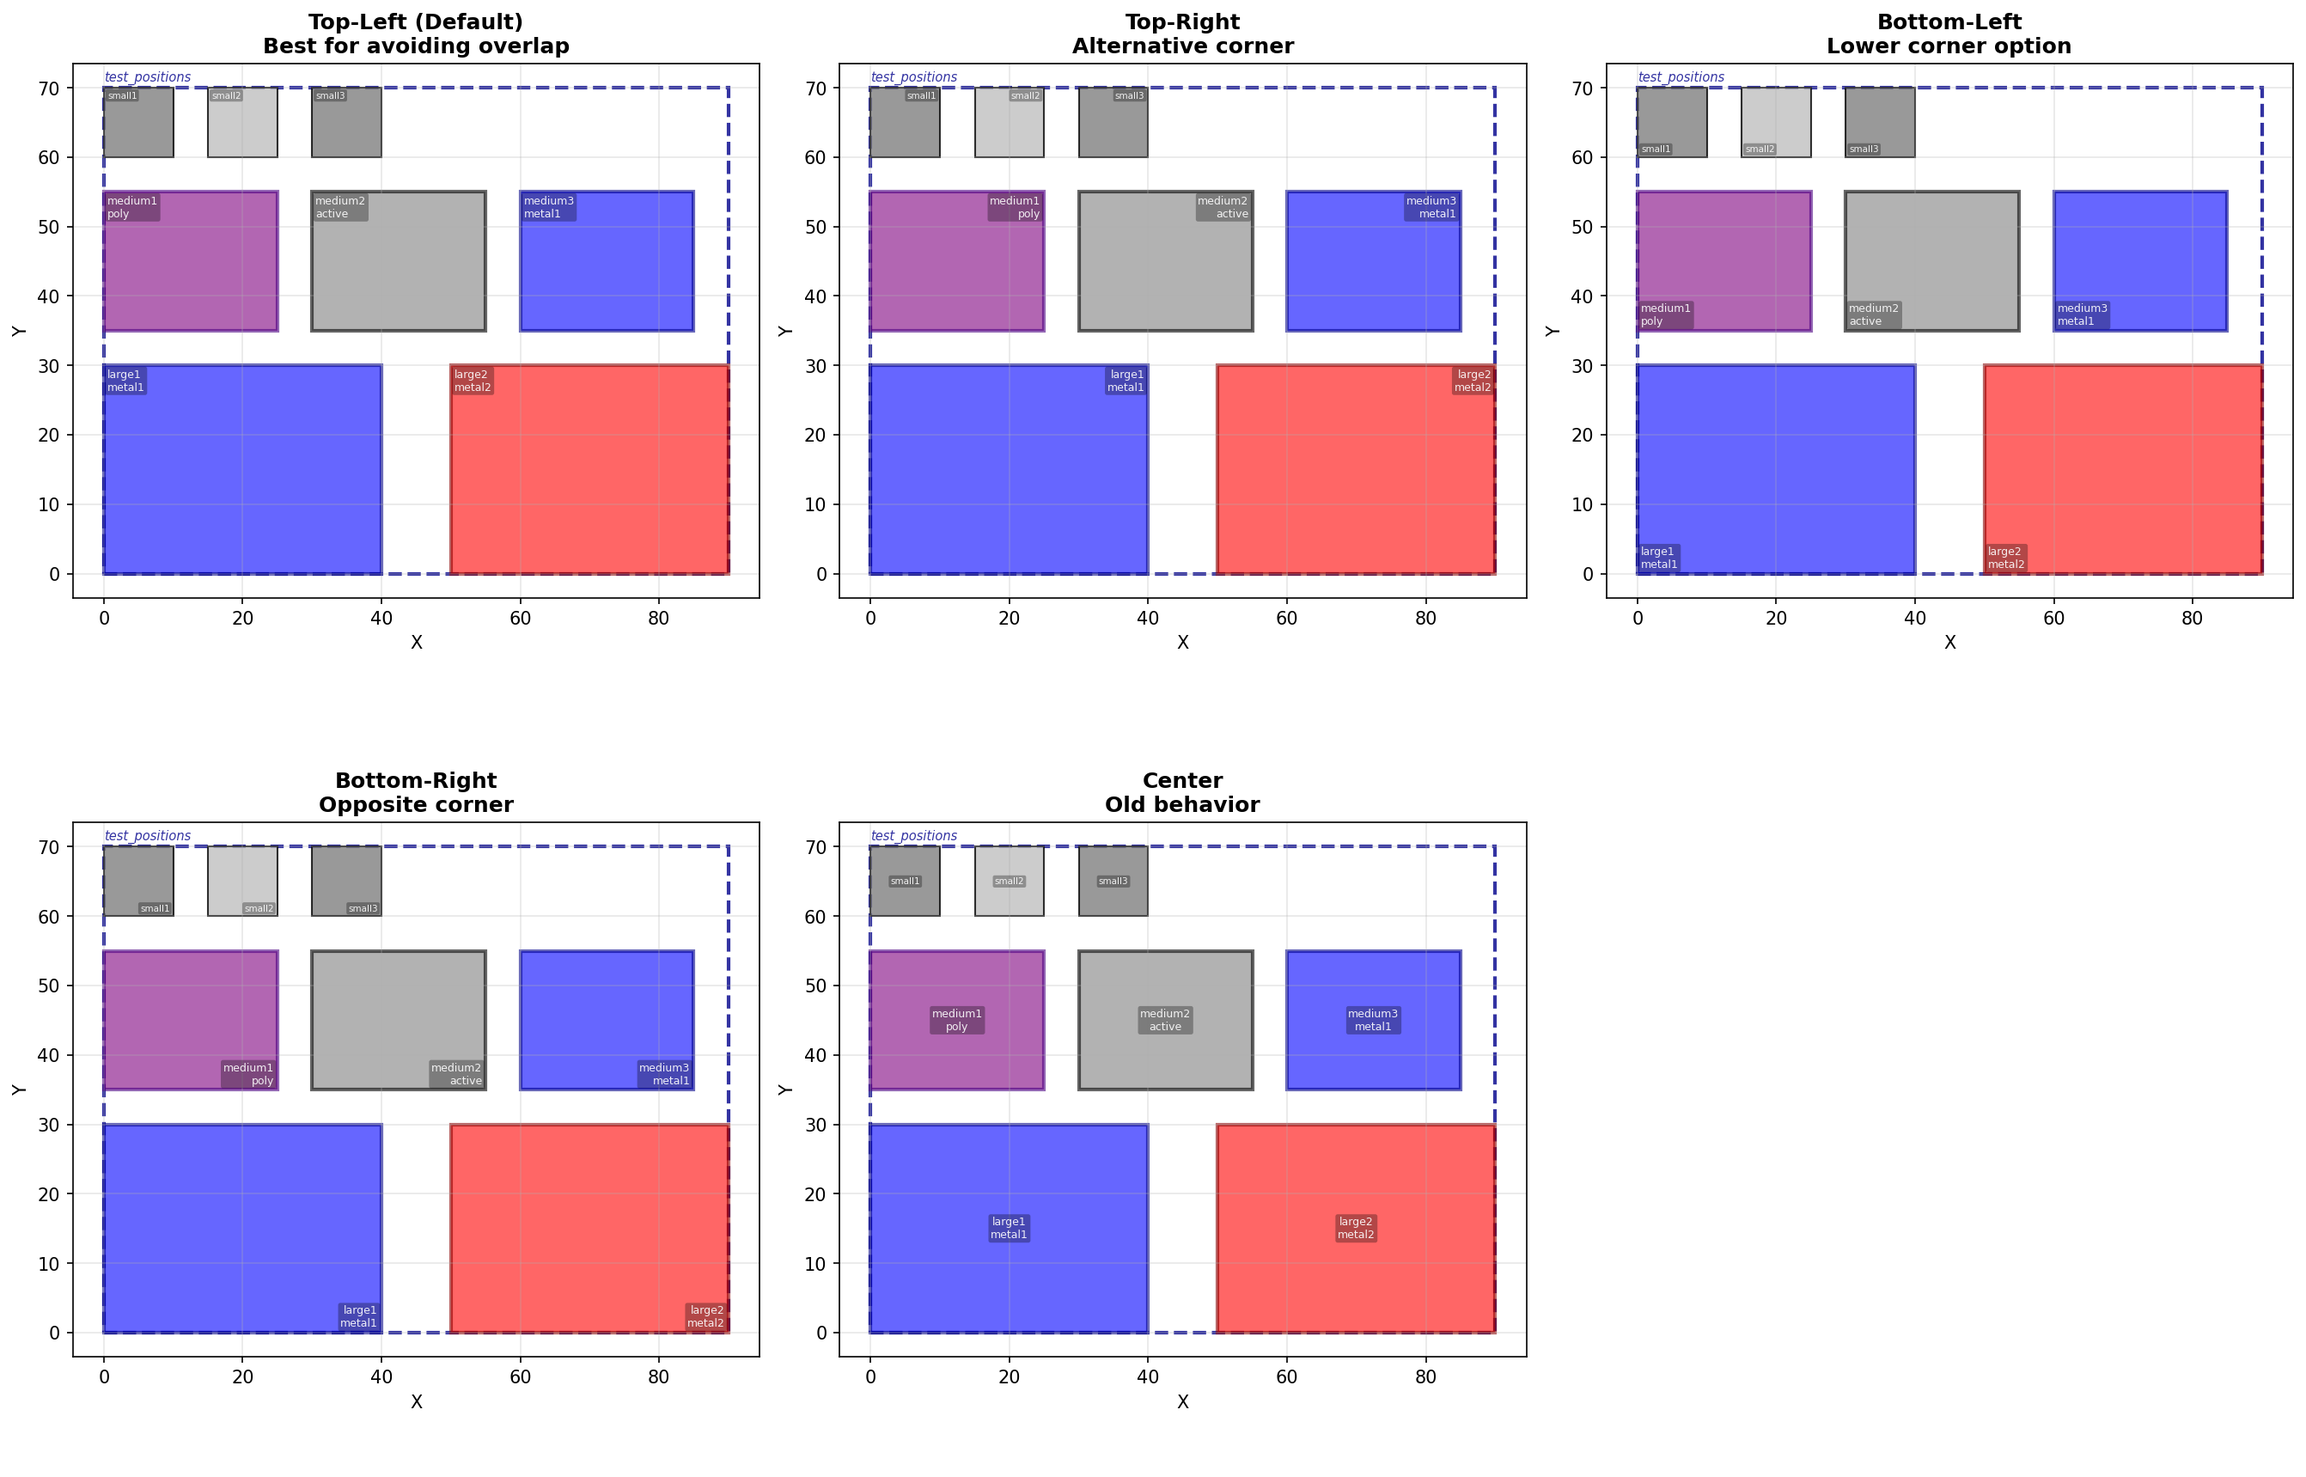
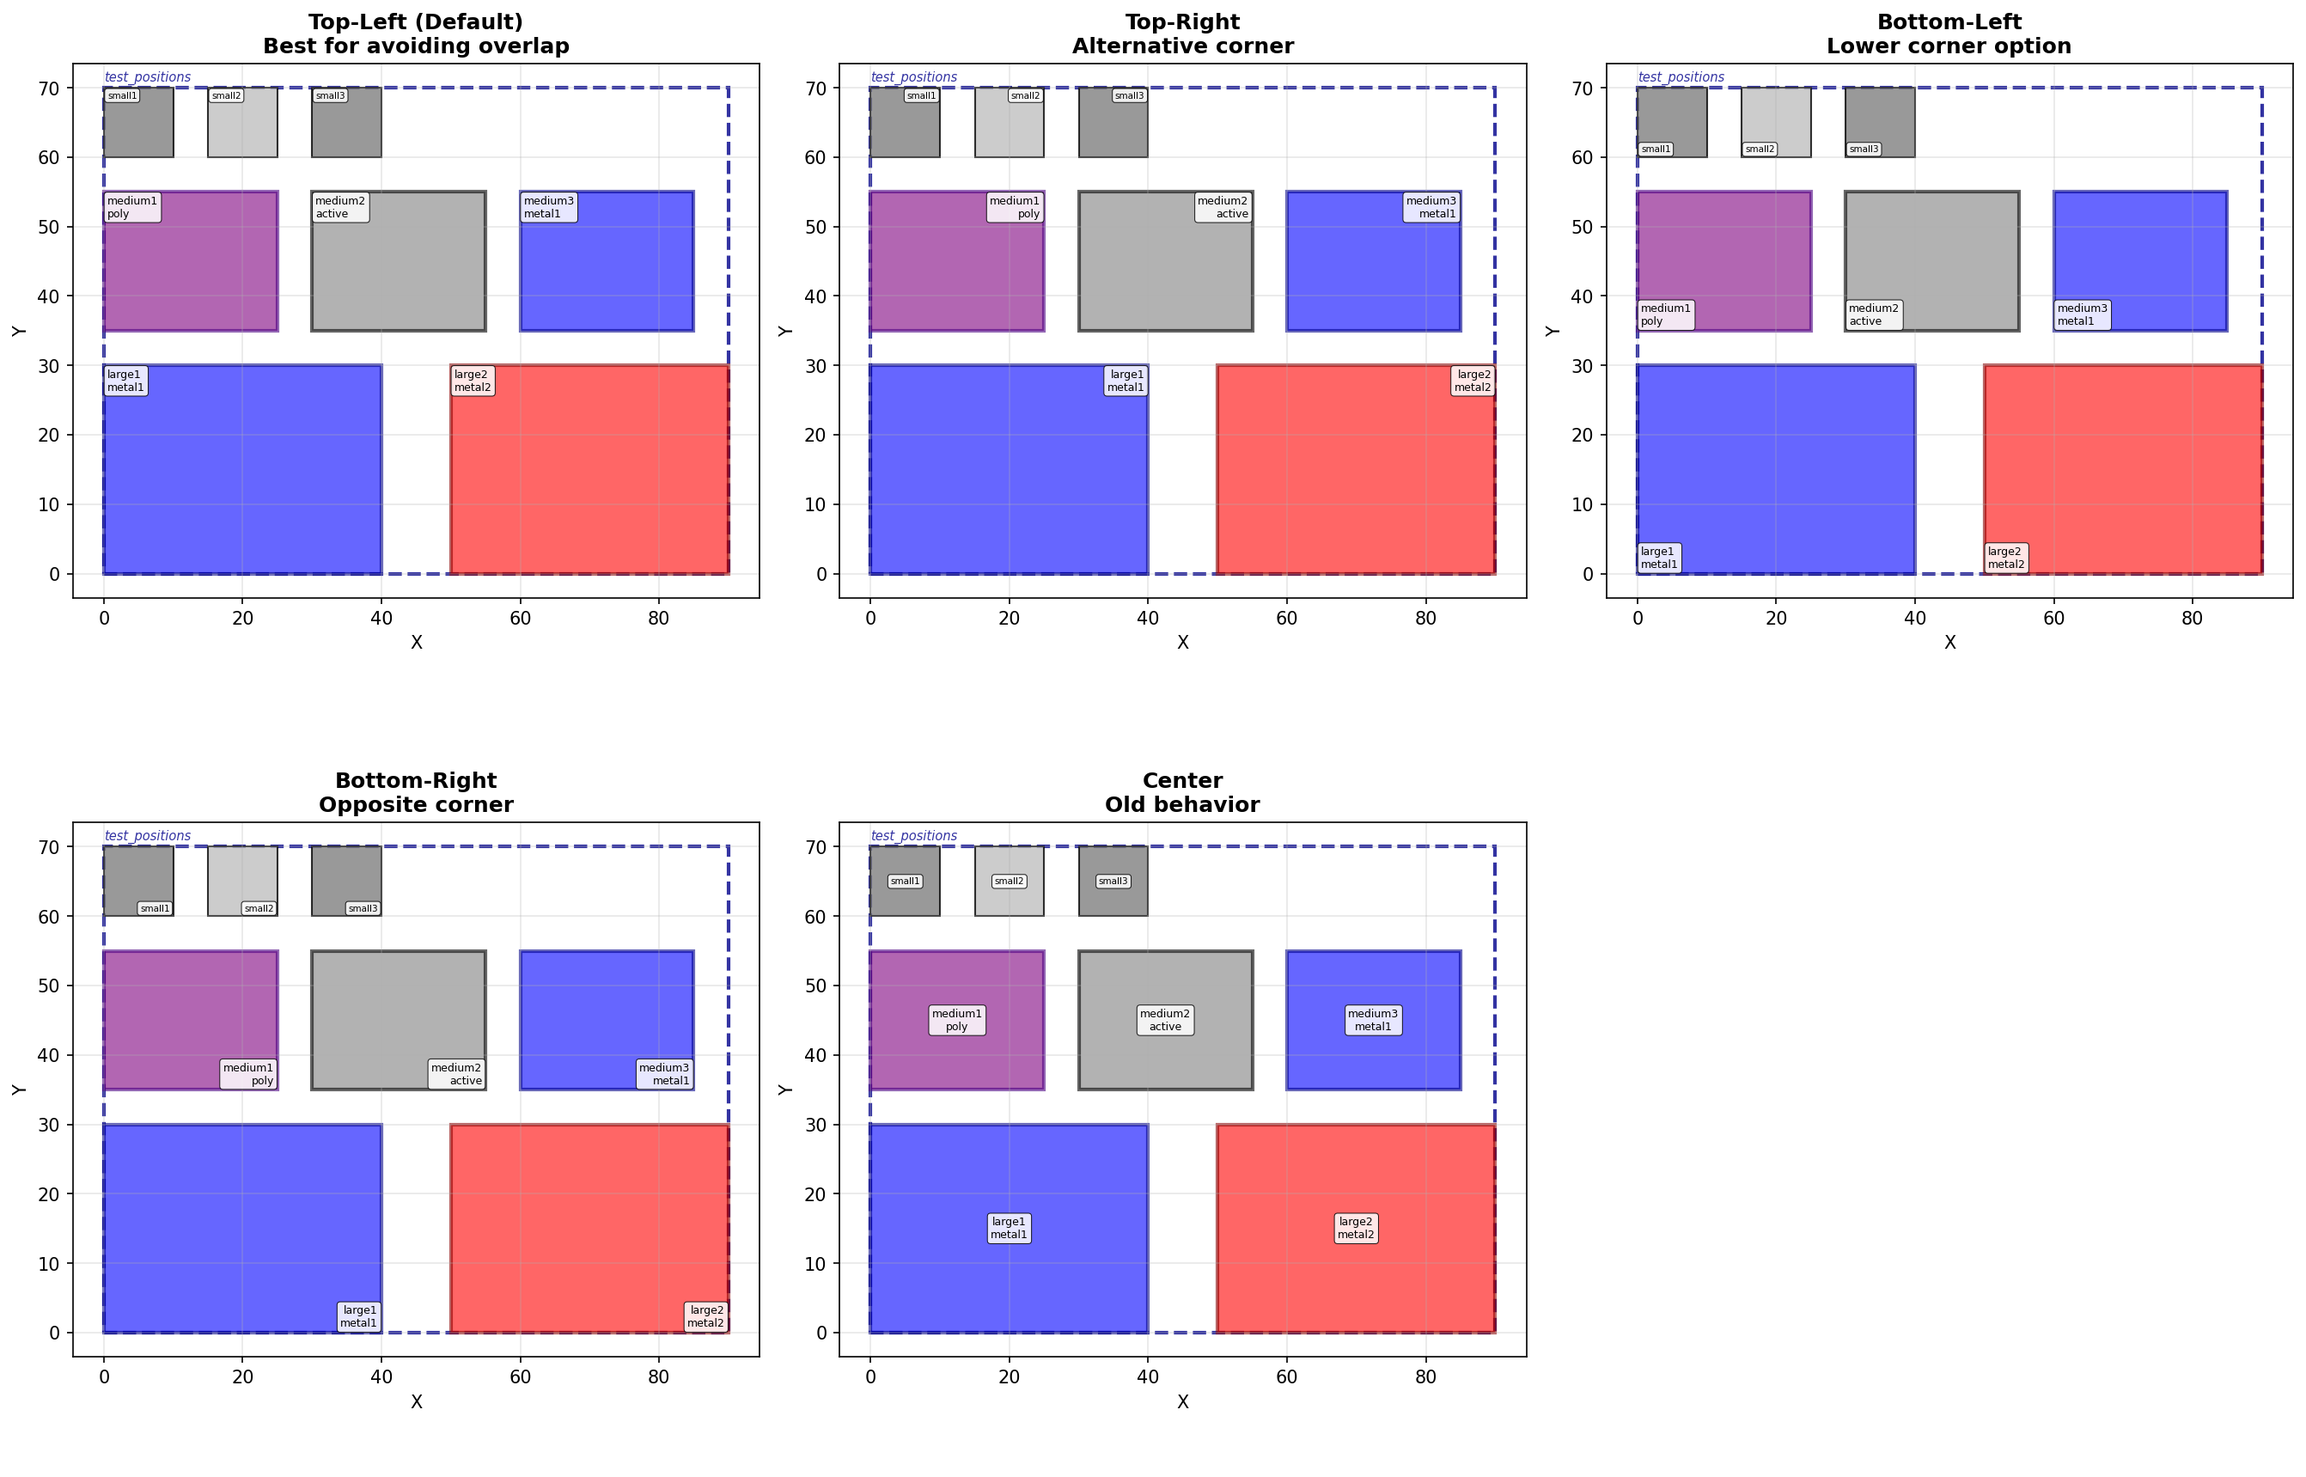
feat: Enhance label appearance and add single-edge constraint keywords
Label Enhancements:
- Changed text color from white to black for better readability
- Changed background from semi-transparent black to white (alpha=0.85)
- Added sharp black border around labels (linewidth=0.5)
- Increased padding from 0.2 to 0.3 for better spacing
- Labels now have crisp, professional appearance with high contrast

New Constraint Keywords (Single-Edge):
- l_edge = ox1-sx1  (object left to subject left)
- r_edge = ox2-sx2  (object right to subject right)
- t_edge = oy2-sy2  (object top to subject top)
- b_edge = oy1-sy1  (object bottom to subject bottom)

Use cases for single-edge keywords:
- l_edge=0: Align left edges (subject and object left edges match)
- l_edge=5: Subject extends 5 units to the left of object
- r_edge=0: Align right edges
- Useful for alignment and positioning relative to reference cells

Files modified:
- layout_automation/cell.py: Enhanced label rendering with black on white
- layout_automation/constraint_keywords.py: Added 4 new single-edge keywords
  and updated documentation table

New test file:
- test_label_and_edge_enhancements.py: Comprehensive testing with 5 tests:
  1. Edge keyword expansion verification
  2. Single-edge keywords in actual layouts
  3. Enhanced label appearance visualization
  4. Practical edge keyword examples
  5. Comparison between single-edge and double-edge keywords

Visual improvements:
- All existing label position test outputs regenerated with enhanced appearance
[…]

diff --git a/test_label_and_edge_enhancements.py b/test_label_and_edge_enhancements.py
@@ -1,0 +1,247 @@
+#!/usr/bin/env python3
+"""
+Test enhanced label appearance and new single-edge keywords
+
+Tests:
+1. Enhanced label appearance (black on white, sharper)
+2. New single-edge keywords: l_edge, r_edge, t_edge, b_edge
+3. Visual comparison before/after
+"""
+
+from layout_automation import Cell
+from layout_automation.constraint_keywords import expand_constraint_keywords
+import matplotlib.pyplot as plt
+
+print("="*70)
+print("Testing Label and Edge Enhancements")
+print("="*70)
+
+# Test 1: Verify new edge keywords expansion
+print("\n[Test 1] New edge keyword expansion")
+print("-" * 70)
+
+test_cases = [
+    ('l_edge=10', 'ox1-sx1=10'),
+    ('r_edge=5', 'ox2-sx2=5'),
+    ('t_edge=3', 'oy2-sy2=3'),
+    ('b_edge=7', 'oy1-sy1=7'),
+    ('l_edge=0, b_edge=0', 'ox1-sx1=0, oy1-sy1=0'),
+]
+
+all_passed = True
+for keyword, expected in test_cases:
+    result = expand_constraint_keywords(keyword)
+    status = "[PASS]" if result == expected else "[FAIL]"
+    if result != expected:
+        all_passed = False
+    print(f"  {status} '{keyword}' -> '{result}'")
+    if result != expected:
+        print(f"         Expected: '{expected}'")
+
+if all_passed:
+    print("\n  All edge keyword tests passed!")
+else:
+    print("\n  Some tests failed!")
+
+# Test 2: Use new keywords in actual layout
+print("\n[Test 2] Using new edge keywords in layout")
+print("-" * 70)
+
+parent = Cell('chip')
+base = Cell('base', 'metal1')
+aligned_left = Cell('aligned_left', 'metal2')
+aligned_right = Cell('aligned_right', 'poly')
+aligned_top = Cell('aligned_top', 'active')
+aligned_bottom = Cell('aligned_bottom', 'contact')
+
+parent.add_instance([base, aligned_left, aligned_right, aligned_top, aligned_bottom])
+
+# Base cell
+parent.constrain(base, 'x1=20, y1=20, x2=60, y2=50')
+
+# Use l_edge to align left edges (l_edge=0 means ox1=sx1)
+parent.constrain(aligned_left, 'l_edge=0, b_edge=10, swidth=20, sheight=15', base)
+
+# Use r_edge to align right edges (r_edge=0 means ox2=sx2)
+parent.constrain(aligned_right, 'r_edge=0, b_edge=10, swidth=20, sheight=15', base)
+
+# Use t_edge to align top edges (t_edge=0 means oy2=sy2)
+parent.constrain(aligned_top, 't_edge=0, l_edge=10, swidth=15, sheight=20', base)
+
+# Use b_edge to align bottom edges (b_edge=0 means oy1=sy1)
+parent.constrain(aligned_bottom, 'b_edge=0, l_edge=10, swidth=20, sheight=15', base)
+
+parent.solver()
+
+# Verify constraints worked correctly
+print(f"  Base: {base.get_bounds()}")
+print(f"  Aligned left (l_edge=0): {aligned_left.get_bounds()}")
+print(f"    Expected: x1={base.x1} (20.0)")
+print(f"    Actual:   x1={aligned_left.x1}")
+print(f"    Match: {abs(aligned_left.x1 - base.x1) < 0.01}")
+
+print(f"\n  Aligned right (r_edge=0): {aligned_right.get_bounds()}")
+print(f"    Expected: x2={base.x2} (60.0)")
+print(f"    Actual:   x2={aligned_right.x2}")
+print(f"    Match: {abs(aligned_right.x2 - base.x2) < 0.01}")
+
+print(f"\n  Aligned top (t_edge=0): {aligned_top.get_bounds()}")
+print(f"    Expected: y2={base.y2} (50.0)")
+print(f"    Actual:   y2={aligned_top.y2}")
+print(f"    Match: {abs(aligned_top.y2 - base.y2) < 0.01}")
+
+print(f"\n  Aligned bottom (b_edge=0): {aligned_bottom.get_bounds()}")
+print(f"    Expected: y1={base.y1} (20.0)")
+print(f"    Actual:   y1={aligned_bottom.y1}")
+print(f"    Match: {abs(aligned_bottom.y1 - base.y1) < 0.01}")
+
+# Test 3: Visual test of enhanced labels
+print("\n[Test 3] Enhanced label appearance (black on white)")
+print("-" * 70)
+
+# Create a test layout with various cell sizes to show labels
+test_layout = Cell('label_test')
+
+cells = []
+cell_data = [
+    ('Large_Cell_1', 'metal1', 0, 0, 50, 40),
+    ('Large_Cell_2', 'metal2', 60, 0, 110, 40),
+    ('Medium_1', 'poly', 0, 50, 25, 75),
+    ('Medium_2', 'active', 30, 50, 55, 75),
+    ('Small_1', 'contact', 0, 85, 12, 97),
+    ('Small_2', 'via', 18, 85, 30, 97),
+]
+
+for name, layer, x1, y1, x2, y2 in cell_data:
+    cell = Cell(name, layer)
+    cells.append(cell)
+    test_layout.add_instance(cell)
+    test_layout.constrain(cell, f'x1={x1}, y1={y1}, x2={x2}, y2={y2}')
+
+test_layout.solver()
+
+# Draw with enhanced labels
+fig, (ax1, ax2) = plt.subplots(1, 2, figsize=(16, 7))
+
+# Left: Full label mode
+test_layout.draw(ax=ax1, show=False, solve_first=False, label_mode='full')
+ax1.set_title('Enhanced Labels - Full Mode\n(Black text on white, sharper edges)',
+             fontsize=14, weight='bold')
+
+# Right: Auto label mode
+test_layout.draw(ax=ax2, show=False, solve_first=False, label_mode='auto')
+ax2.set_title('Enhanced Labels - Auto Mode\n(Smart sizing with enhanced appearance)',
+             fontsize=14, weight='bold')
+
+plt.tight_layout()
+plt.savefig('demo_outputs/test_enhanced_labels.png', dpi=150, bbox_inches='tight')
+plt.close()
+print("  Saved: demo_outputs/test_enhanced_labels.png")
+
+# Test 4: Edge keyword usage examples
+print("\n[Test 4] Edge keyword practical examples")
+print("-" * 70)
+
+example_layout = Cell('edge_examples')
+
+ref = Cell('reference', 'metal1')
+test1 = Cell('l_edge_test', 'metal2')
+test2 = Cell('r_edge_test', 'poly')
+test3 = Cell('t_edge_test', 'active')
+test4 = Cell('b_edge_test', 'contact')
+
+example_layout.add_instance([ref, test1, test2, test3, test4])
+
+# Reference cell in center
+example_layout.constrain(ref, 'x1=40, y1=40, x2=80, y2=70')
+
+# l_edge=5 means object's left is 5 units to the left of subject's left
+example_layout.constrain(test1, 'l_edge=5, t_edge=5, swidth=20, sheight=15', ref)
+
+# r_edge=5 means object's right is 5 units to the right of subject's right
+example_layout.constrain(test2, 'r_edge=5, t_edge=5, swidth=20, sheight=15', ref)
+
+# t_edge=5 means object's top is 5 units above subject's top
+example_layout.constrain(test3, 't_edge=5, l_edge=5, swidth=15, sheight=20', ref)
+
+# b_edge=5 means object's bottom is 5 units below subject's bottom
+example_layout.constrain(test4, 'b_edge=5, l_edge=5, swidth=15, sheight=20', ref)
+
+example_layout.solver()
+
+example_layout.draw(show=False, solve_first=False)
+plt.savefig('demo_outputs/test_edge_keyword_examples.png', dpi=150, bbox_inches='tight')
+plt.close()
+print("  Saved: demo_outputs/test_edge_keyword_examples.png")
+
+print(f"\n  Reference: {ref.get_bounds()}")
+print(f"  l_edge=5: {test1.get_bounds()}")
+print(f"    Expected: x1=reference.x1-5={ref.x1-5}")
+print(f"    Actual:   x1={test1.x1}")
+print(f"    Match: {abs(test1.x1 - (ref.x1 - 5)) < 0.01}")
+
+# Test 5: Comparison with old edge keywords
+print("\n[Test 5] Comparison: single-edge vs double-edge keywords")
+print("-" * 70)
+
+comp = Cell('comparison')
+
+base1 = Cell('base1', 'metal1')
+base2 = Cell('base2', 'metal1')
+child1 = Cell('using_ll_edge', 'metal2')
+child2 = Cell('using_l_edge', 'poly')
+
+comp.add_instance([base1, base2, child1, child2])
+
+# Left side: using ll_edge (subject left to object left)
+comp.constrain(base1, 'x1=10, y1=10, x2=40, y2=40')
+comp.constrain(child1, 'll_edge=10, bb_edge=0, swidth=15, sheight=15', base1)
+
+# Right side: using l_edge (object left to subject left)
+comp.constrain(base2, 'x1=60, y1=10, x2=90, y2=40')
+comp.constrain(child2, 'l_edge=10, b_edge=0, swidth=15, sheight=15', base2)
+
+comp.solver()
+
+print(f"  Using ll_edge=10 (sx1-ox1=10):")
+print(f"    Base:  {base1.get_bounds()}")
+print(f"    Child: {child1.get_bounds()}")
+print(f"    child.x1 - base.x1 = {child1.x1 - base1.x1} (should be 10)")
+
+print(f"\n  Using l_edge=10 (ox1-sx1=10):")
+print(f"    Base:  {base2.get_bounds()}")
+print(f"    Child: {child2.get_bounds()}")
+print(f"    base.x1 - child.x1 = {base2.x1 - child2.x1} (should be 10)")
+
+comp.draw(show=False, solve_first=False)
+plt.savefig('demo_outputs/test_edge_keyword_comparison.png', dpi=150, bbox_inches='tight')
+plt.close()
+print("  Saved: demo_outputs/test_edge_keyword_comparison.png")
+
+print("\n" + "="*70)
+print("ALL TESTS COMPLETED!")
+print("="*70)
+
+print("\nEnhancements Summary:")
+print("\n1. Enhanced Label Appearance:")
+print("   [OK] Black text on white background")
+print("   [OK] Sharper edges with black border (linewidth=0.5)")
+print("   [OK] Improved contrast and readability")
+print("   [OK] Semi-transparent white background (alpha=0.85)")
+
+print("\n2. New Single-Edge Keywords:")
+print("   [OK] l_edge = ox1-sx1  (object left to subject left)")
+print("   [OK] r_edge = ox2-sx2  (object right to subject right)")
+print("   [OK] t_edge = oy2-sy2  (object top to subject top)")
+print("   [OK] b_edge = oy1-sy1  (object bottom to subject bottom)")
+
+print("\n3. Use Cases:")
+print("   - l_edge=0: Align left edges (subject's left = object's left)")
+print("   - l_edge=5: Subject extends 5 units left of object")
+print("   - l_edge=-5: Subject is 5 units to the right of object's left")
+print("   - Useful for alignment and positioning relative to reference")
+
+print("\nGenerated files:")
+print("  - test_enhanced_labels.png         : Enhanced label appearance")
+print("  - test_edge_keyword_examples.png   : Single-edge keyword examples")
+print("  - test_edge_keyword_comparison.png : ll_edge vs l_edge comparison")

diff --git a/layout_automation/constraint_keywords.py b/layout_automation/constraint_keywords.py
@@ -21,6 +21,12 @@ CONSTRAINT_KEYWORDS = {
     'top': 'sy2=oy2',
     'bottom': 'sy1=oy1',
 
+    # Single edge distance keywords (object to subject)
+    'l_edge': 'ox1-sx1',      # Distance from object left to subject left
+    'r_edge': 'ox2-sx2',      # Distance from object right to subject right
+    't_edge': 'oy2-sy2',      # Distance from object top to subject top
+    'b_edge': 'oy1-sy1',      # Distance from object bottom to subject bottom
+
     # Edge distance keywords (horizontal)
     # Format: {subject_edge}{object_edge}_edge
     # l=left(x1), r=right(x2), b=bottom(y1), t=top(y2)
@@ -112,6 +118,15 @@ def get_keyword_table():
 │ right                    │ sx2=ox2  (align right edges)                    │
 │ top                      │ sy2=oy2  (align top edges)                      │
 │ bottom                   │ sy1=oy1  (align bottom edges)                   │
+└──────────────────────────┴──────────────────────────────────────────────────┘
+
+┌─────────────────────────────────────────────────────────────────────────────┐
+│ SINGLE EDGE DISTANCE KEYWORDS (Object to Subject)                         │
+├──────────────────────────┬──────────────────────────────────────────────────┤
+│ l_edge                   │ ox1-sx1  (object left to subject left)          │
+│ r_edge                   │ ox2-sx2  (object right to subject right)        │
+│ t_edge                   │ oy2-sy2  (object top to subject top)            │
+│ b_edge                   │ oy1-sy1  (object bottom to subject bottom)      │
 └──────────────────────────┴──────────────────────────────────────────────────┘
 
 ┌─────────────────────────────────────────────────────────────────────────────┐

diff --git a/layout_automation/cell.py b/layout_automation/cell.py
@@ -1047,9 +1047,9 @@ class Cell(FreezeMixin):
 
                         ax.text(lx, ly, label_text, ha=ha, va=va,
                                fontsize=fontsize, weight=fontweight,
-                               color='white', alpha=0.9,
-                               bbox=dict(boxstyle='round,pad=0.2', facecolor='black',
-                                       alpha=0.3, edgecolor='none'))
+                               color='black', alpha=1.0,
+                               bbox=dict(boxstyle='round,pad=0.3', facecolor='white',
+                                       alpha=0.85, edgecolor='black', linewidth=0.5))
 
             else:
                 # Container cells: outline only, no fill
